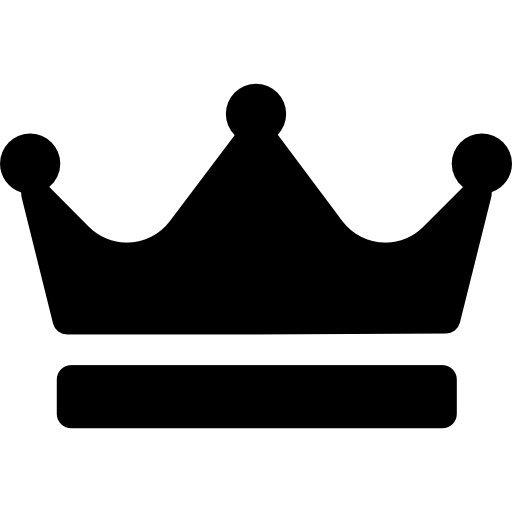
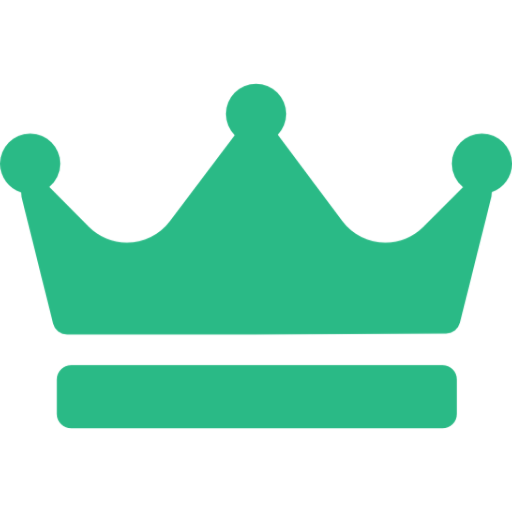
feat: add navbar

diff --git a/CapyType/resources/views/index.blade.php b/CapyType/resources/views/index.blade.php
@@ -7,8 +7,22 @@
     @vite("resources/css/app.css")
 
 </head>
-<body class="aspect-video" style="background-color: 262A33;">
-    <h1 class="p-2">text 1</h1>
-    <p class="m-5 w-10">text 1</p>
+<body class="aspect-video font-mono text-xl" style="background-color: 262A33;">
+    <!-- awal navbar -->
+    <div class="flex flex-wrap items-center justify-around mx-auto    " style="padding-top: 30px;">
+            <div class="flex items-center">  <img src="{{asset('assets/img/logocapy.png')}}" class=" mr-3 alt="Kupitilizer Logo" width="65"/>
+                <span class="self-center text-3xl font-bold" style="font-size: 40px; color: 
+                #E5F7EF;">CapyType</span>
+                <div class="flex items-center  pl-10" > 
+                    <img src="{{asset('assets/img/keyboard.png')}}"  class=" mr-3 alt= pr-2"Kupitilizer Logo" width="54" />
+                    <img src="{{asset('assets/img/crown.png')}}" class=" mr-3 pr-2"Kupitilizer Logo" width="45"/>
+                    <img src="{{asset('assets/img/information.png')}}" class=" mr-3 alt= pr-2"Kupitilizer Logo" width="35"/>
+                    <img src="{{asset('assets/img/setting.png')}}" class=" mr-3 alt= pr-2"Kupitilizer Logo" width="35"/>
+                </div>
+            </div>
+           
+        <button class="rounded-lg px-5 py-3 font-bold " style="background-color: #1F232C; font-size: 16px; color: #526777;">register/login</button>
+    </div>
+    <!-- akhir navbar -->
 </body>
 </html>
